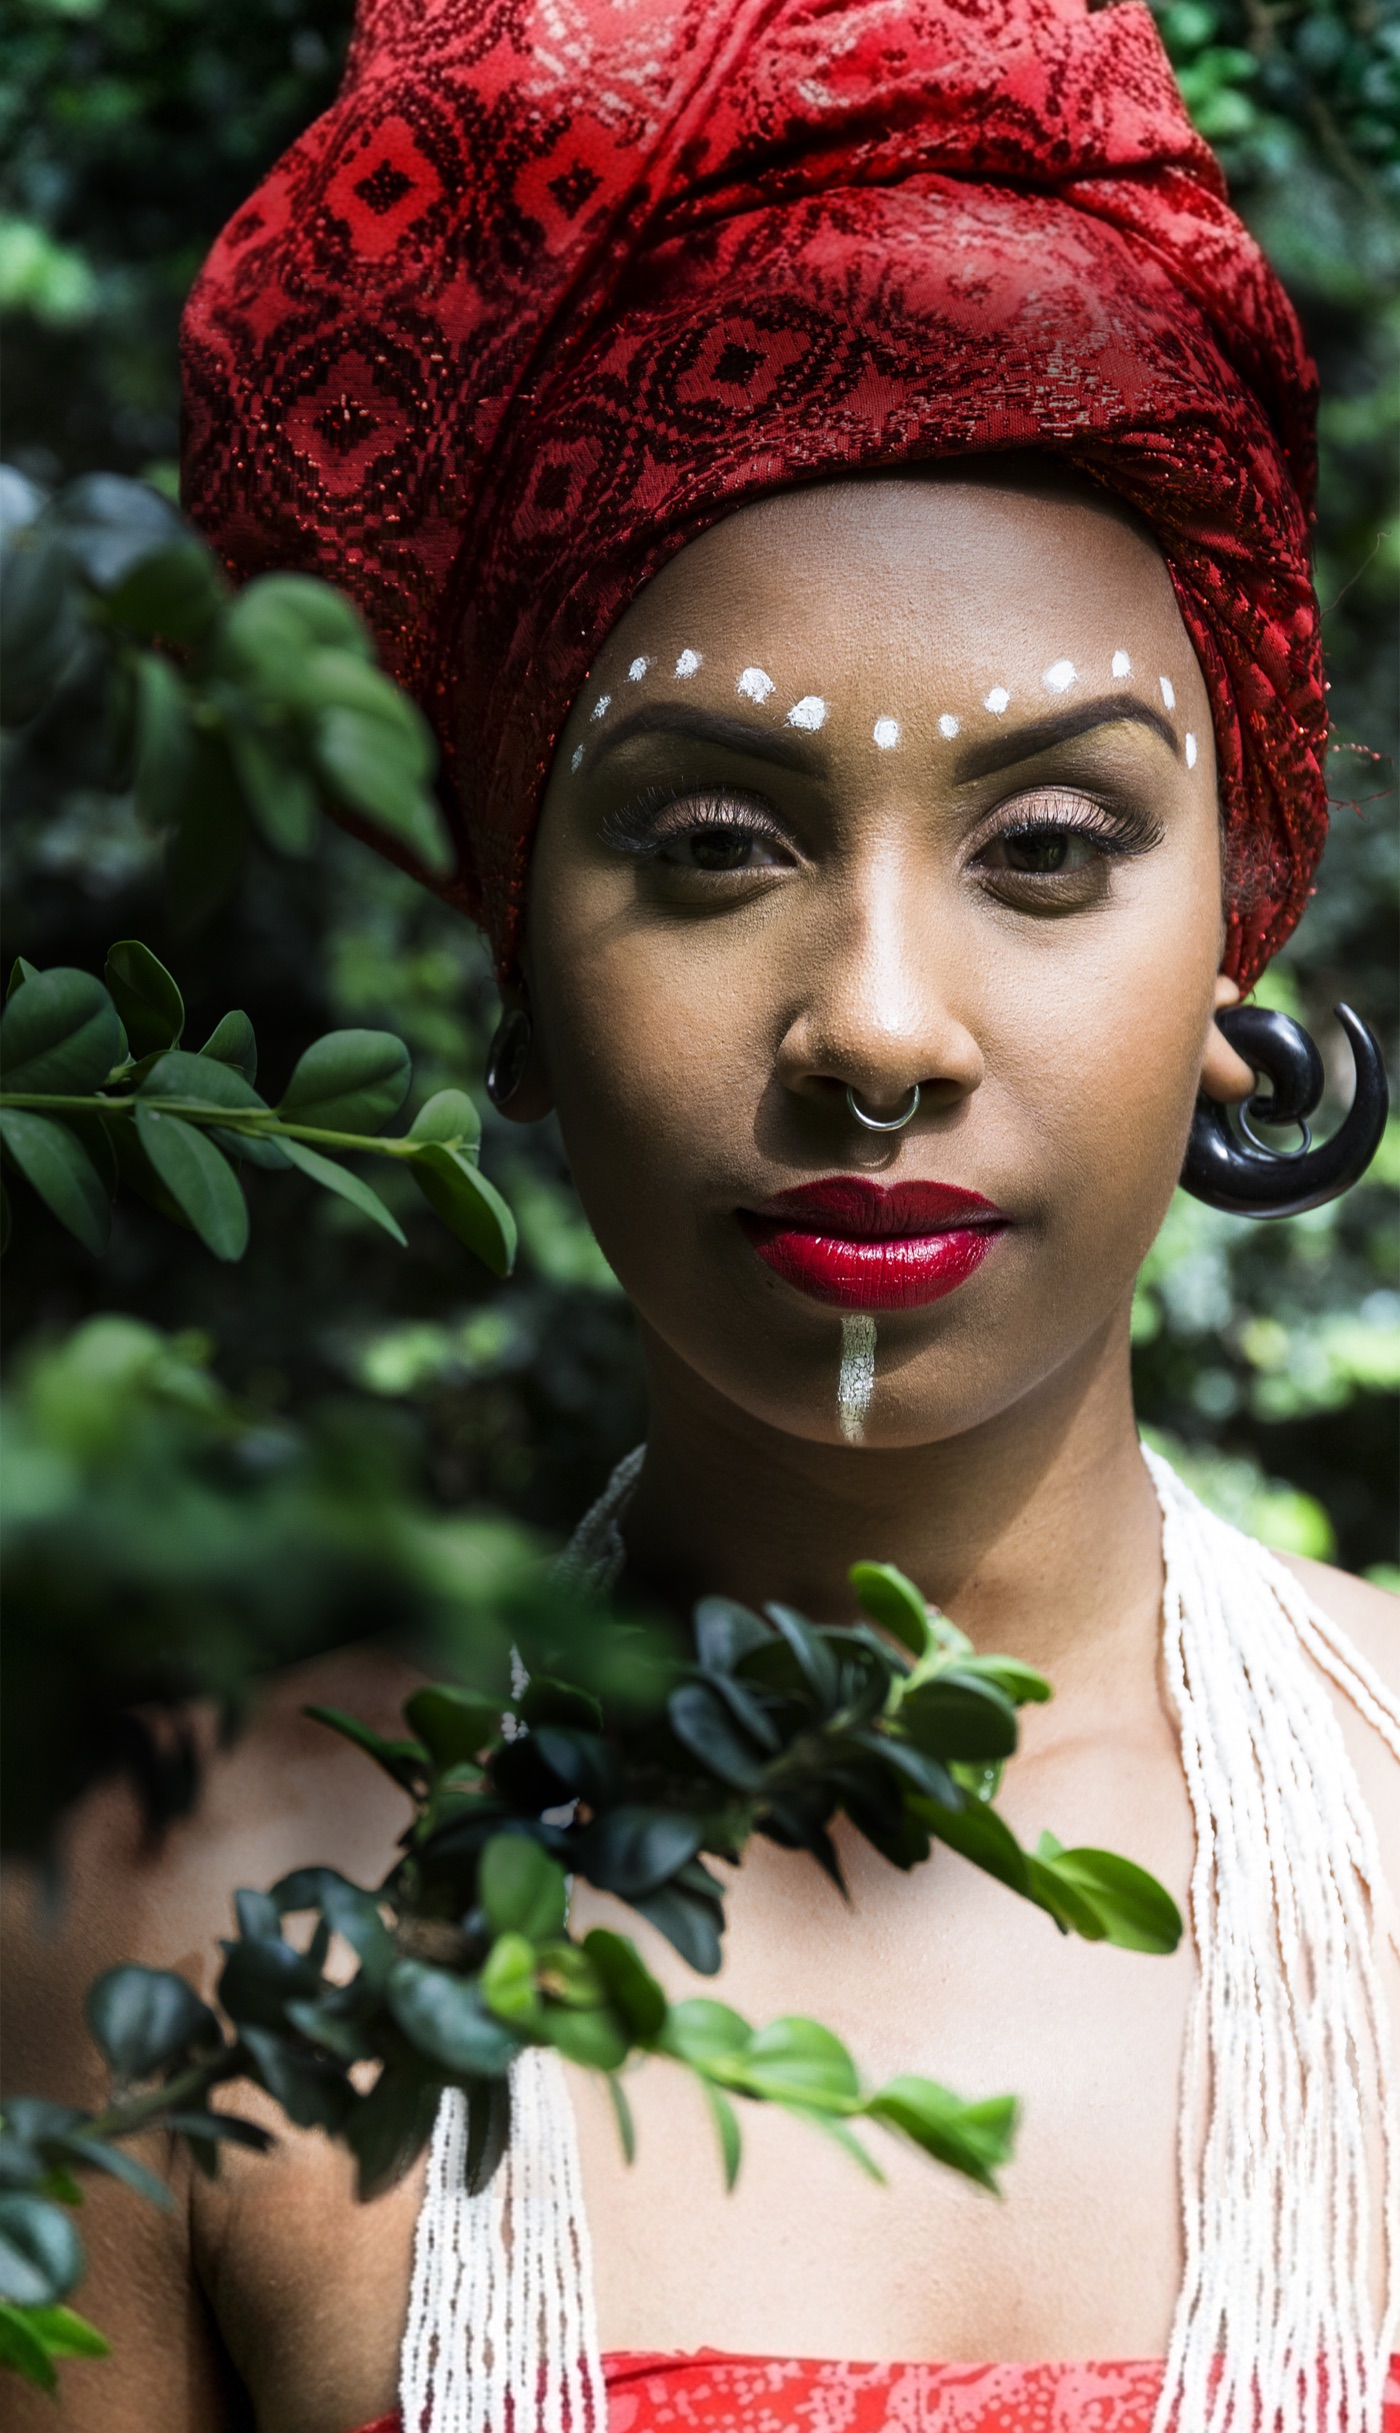
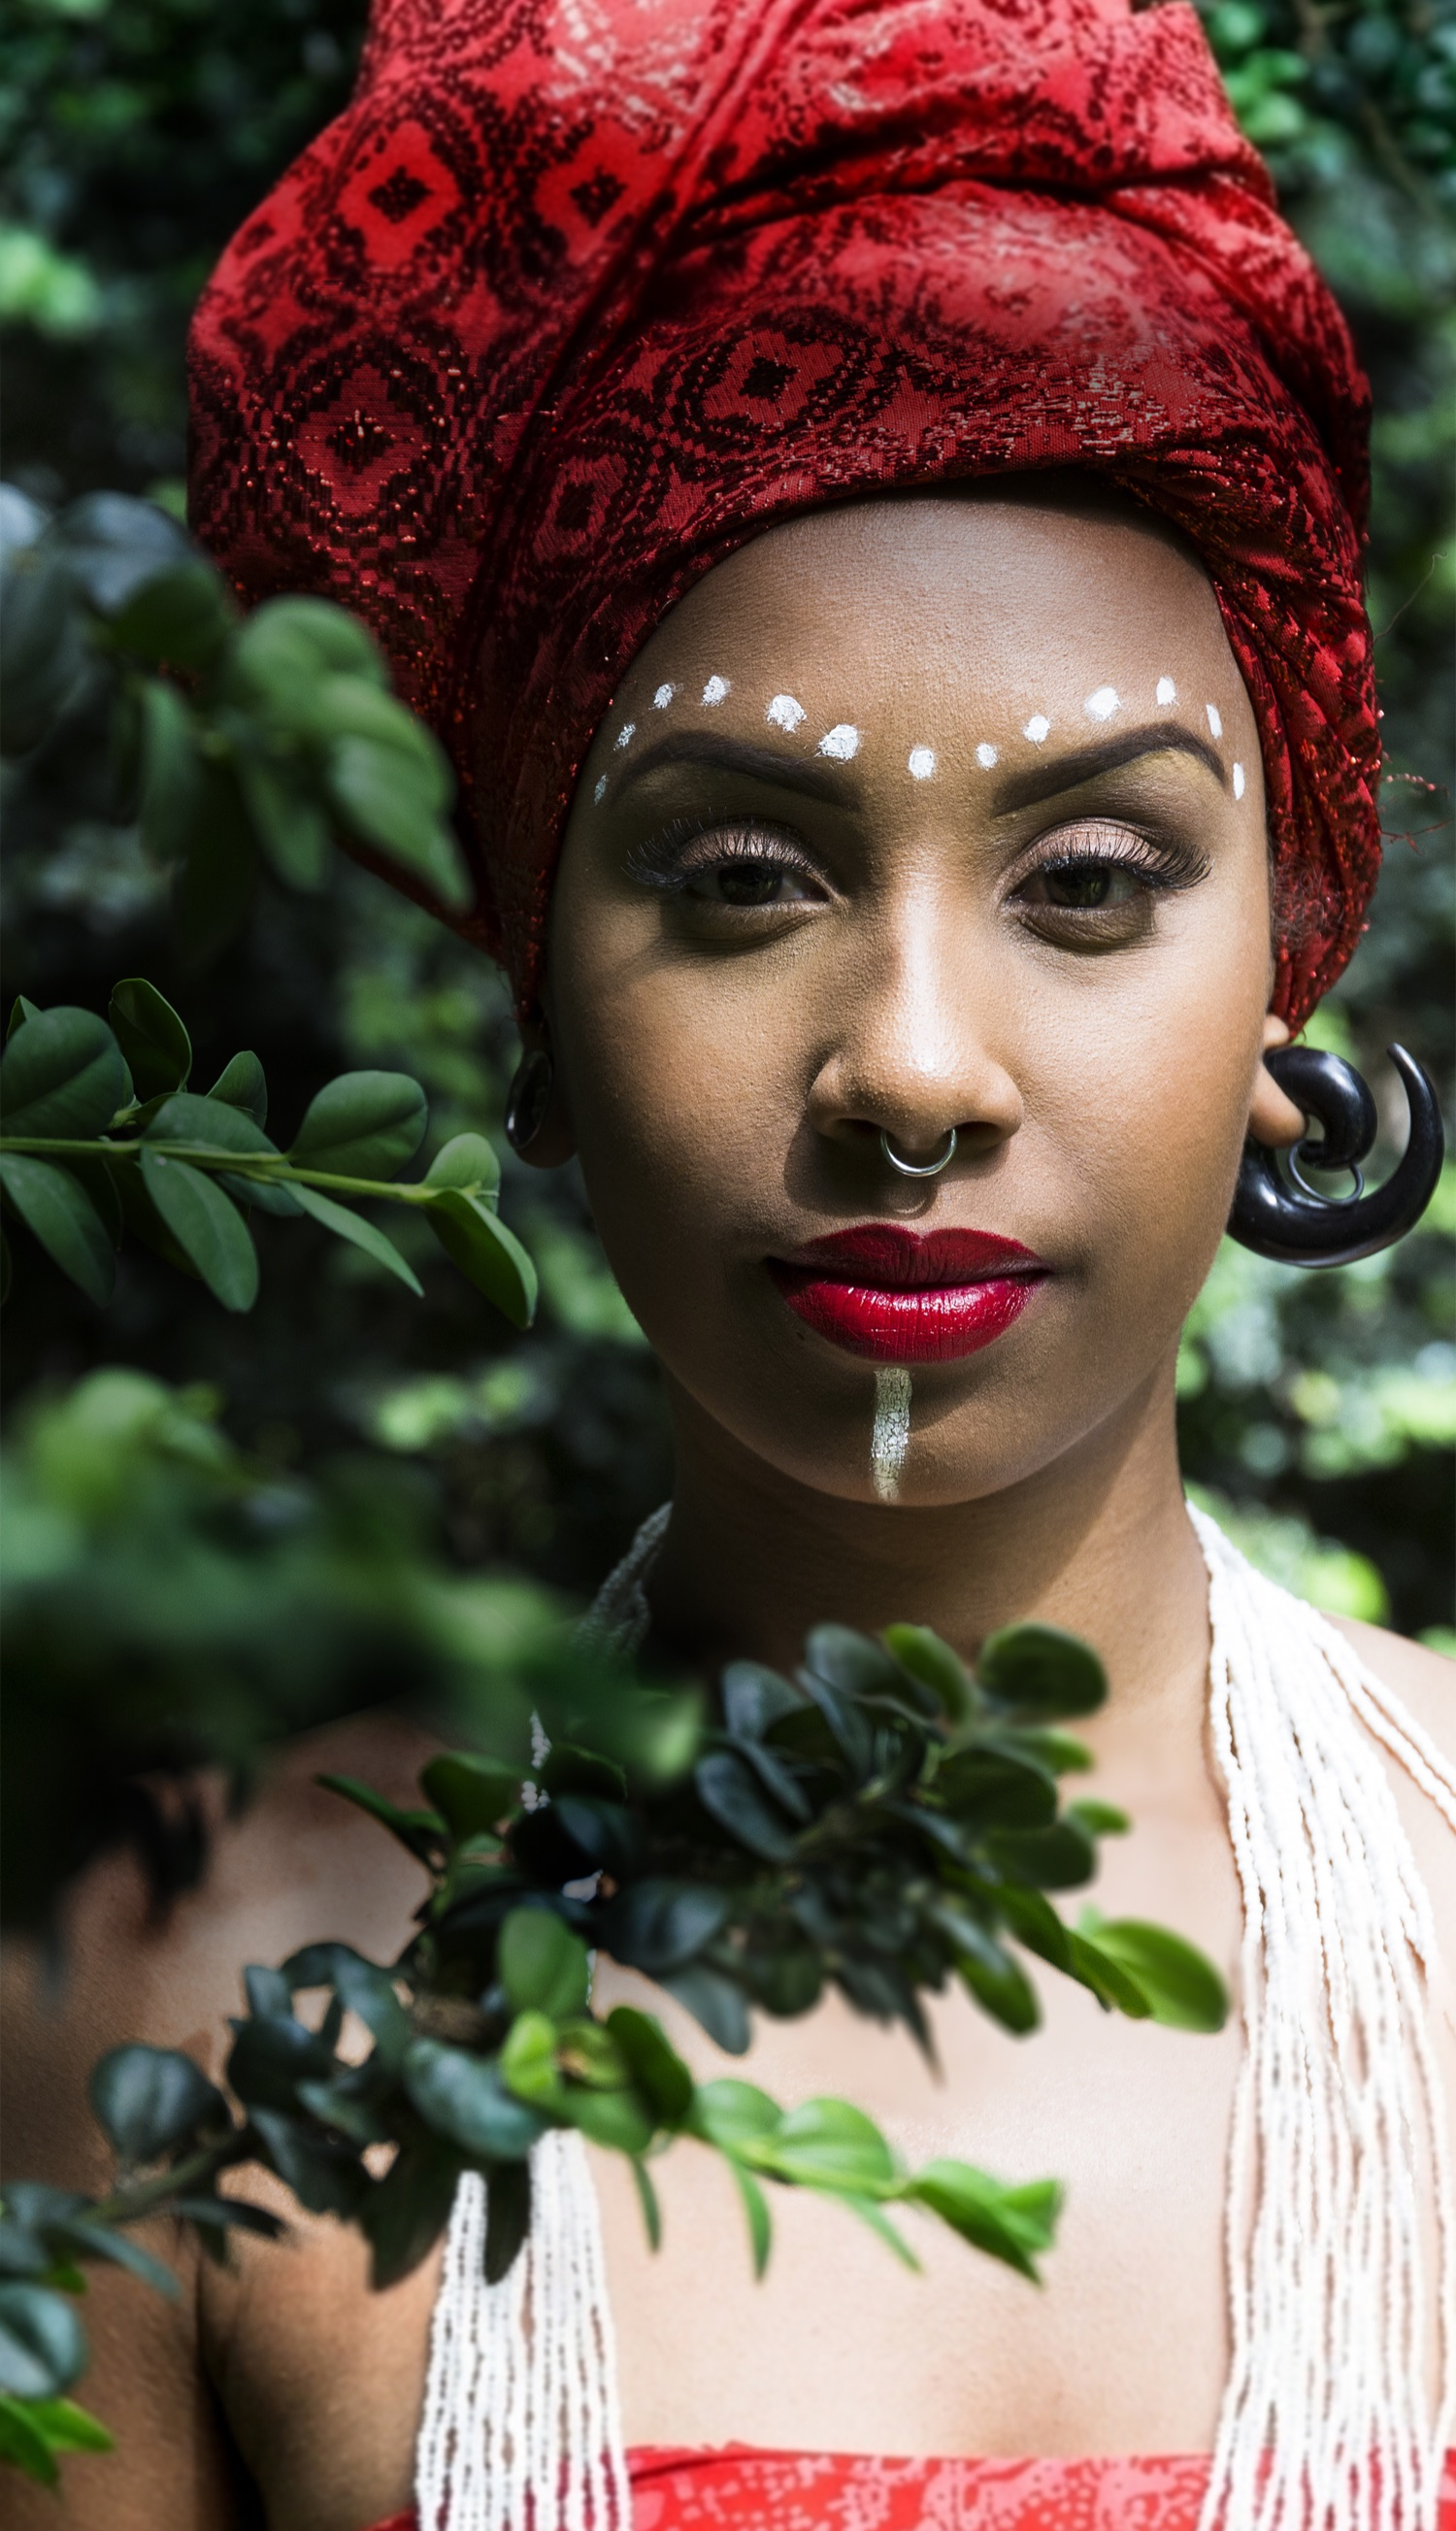
Drafts hero v2: correct mobile bg image (hero mbl)

diff --git a/index.html b/index.html
@@ -2906,7 +2906,7 @@ body.menu-open .site-header{ -webkit-backdrop-filter:none; backdrop-filter:none;
         min-height:173.84vw; height:173.84vw;
         aspect-ratio:auto; padding:0;
         background-color:#141a14;
-        background-image:url("images/hero-tablet-draft.jpg");
+        background-image:url("images/hero-mobile-draft.jpg");
         background-size:cover; background-position:center top; background-repeat:no-repeat;
       }
       .hero.hero--light.hero--mblv2::after{ display:none; }

diff --git a/site-source.html b/site-source.html
@@ -2906,7 +2906,7 @@ body.menu-open .site-header{ -webkit-backdrop-filter:none; backdrop-filter:none;
         min-height:173.84vw; height:173.84vw;
         aspect-ratio:auto; padding:0;
         background-color:#141a14;
-        background-image:url("images/hero-tablet-draft.jpg");
+        background-image:url("images/hero-mobile-draft.jpg");
         background-size:cover; background-position:center top; background-repeat:no-repeat;
       }
       .hero.hero--light.hero--mblv2::after{ display:none; }